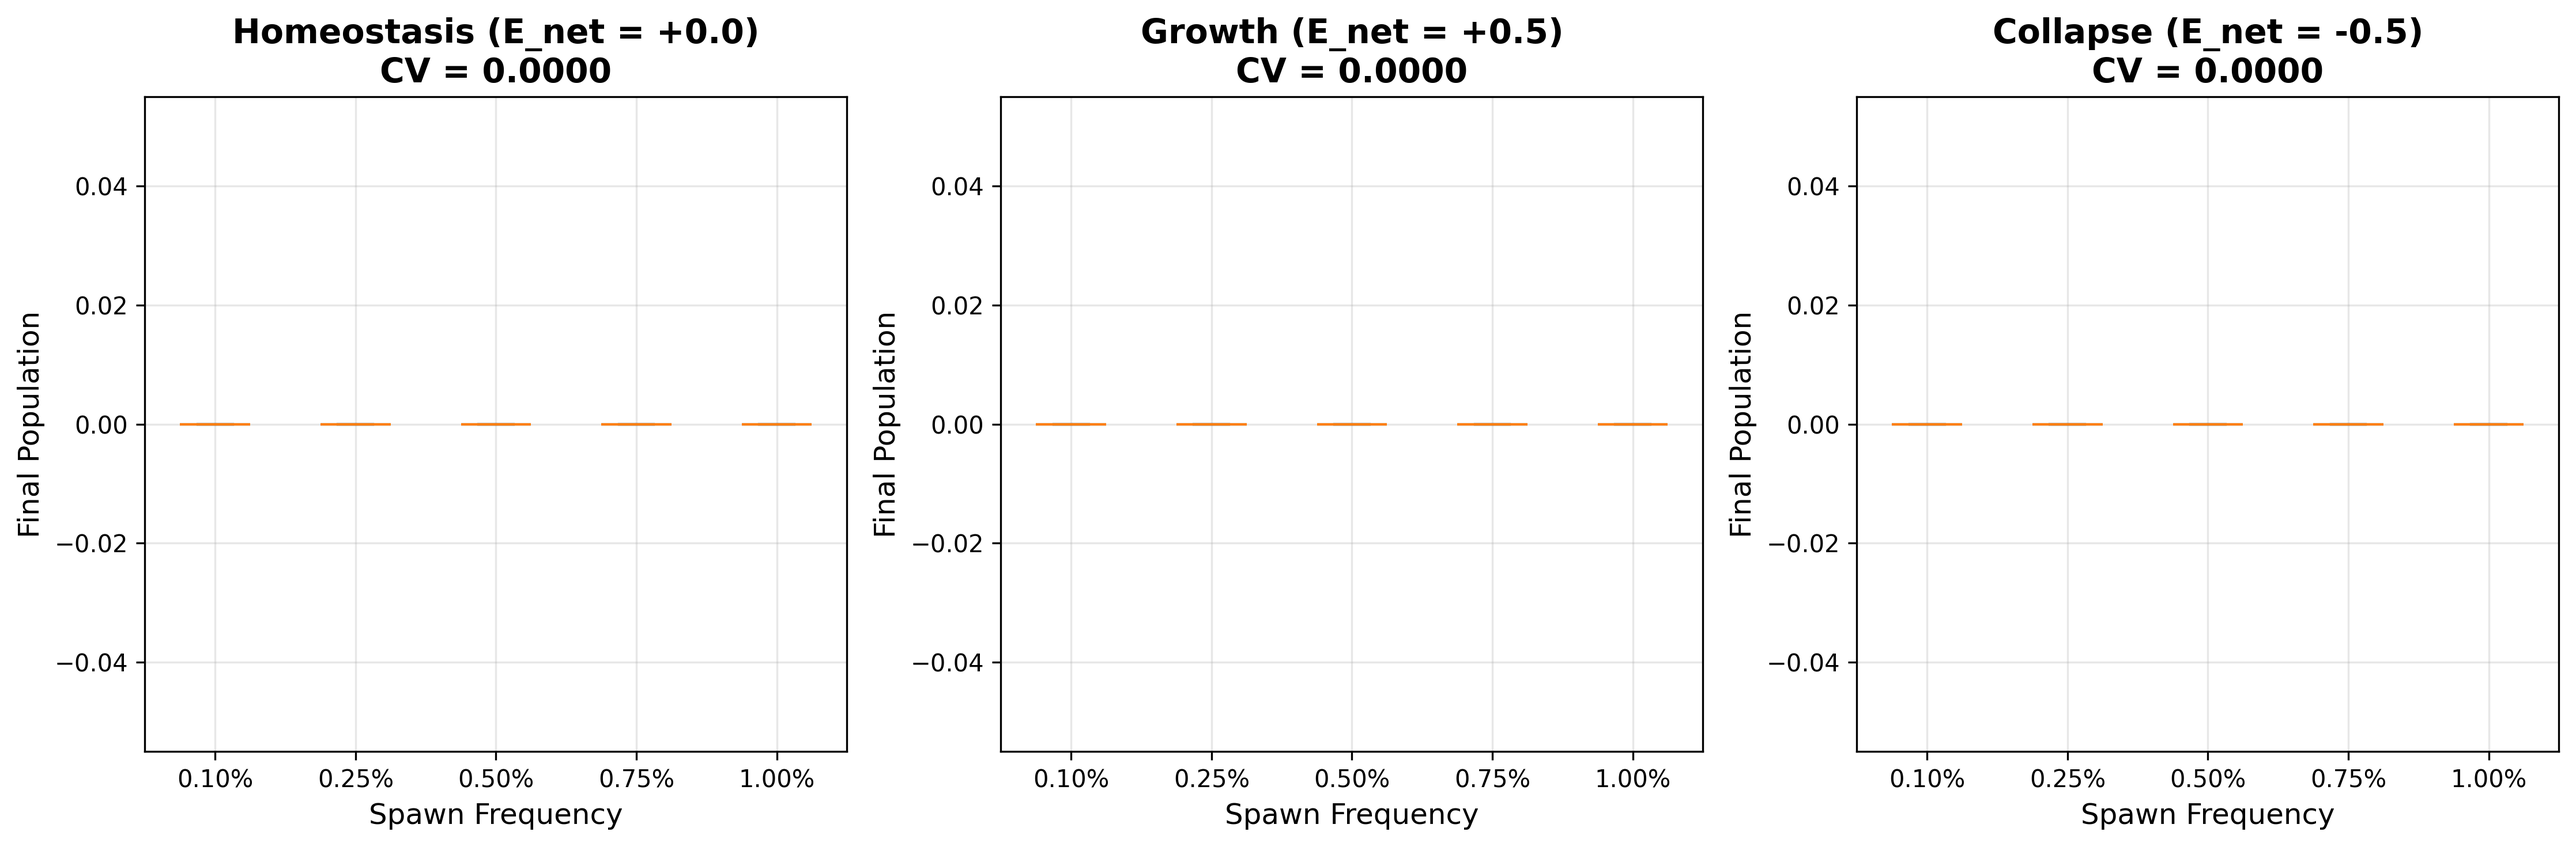
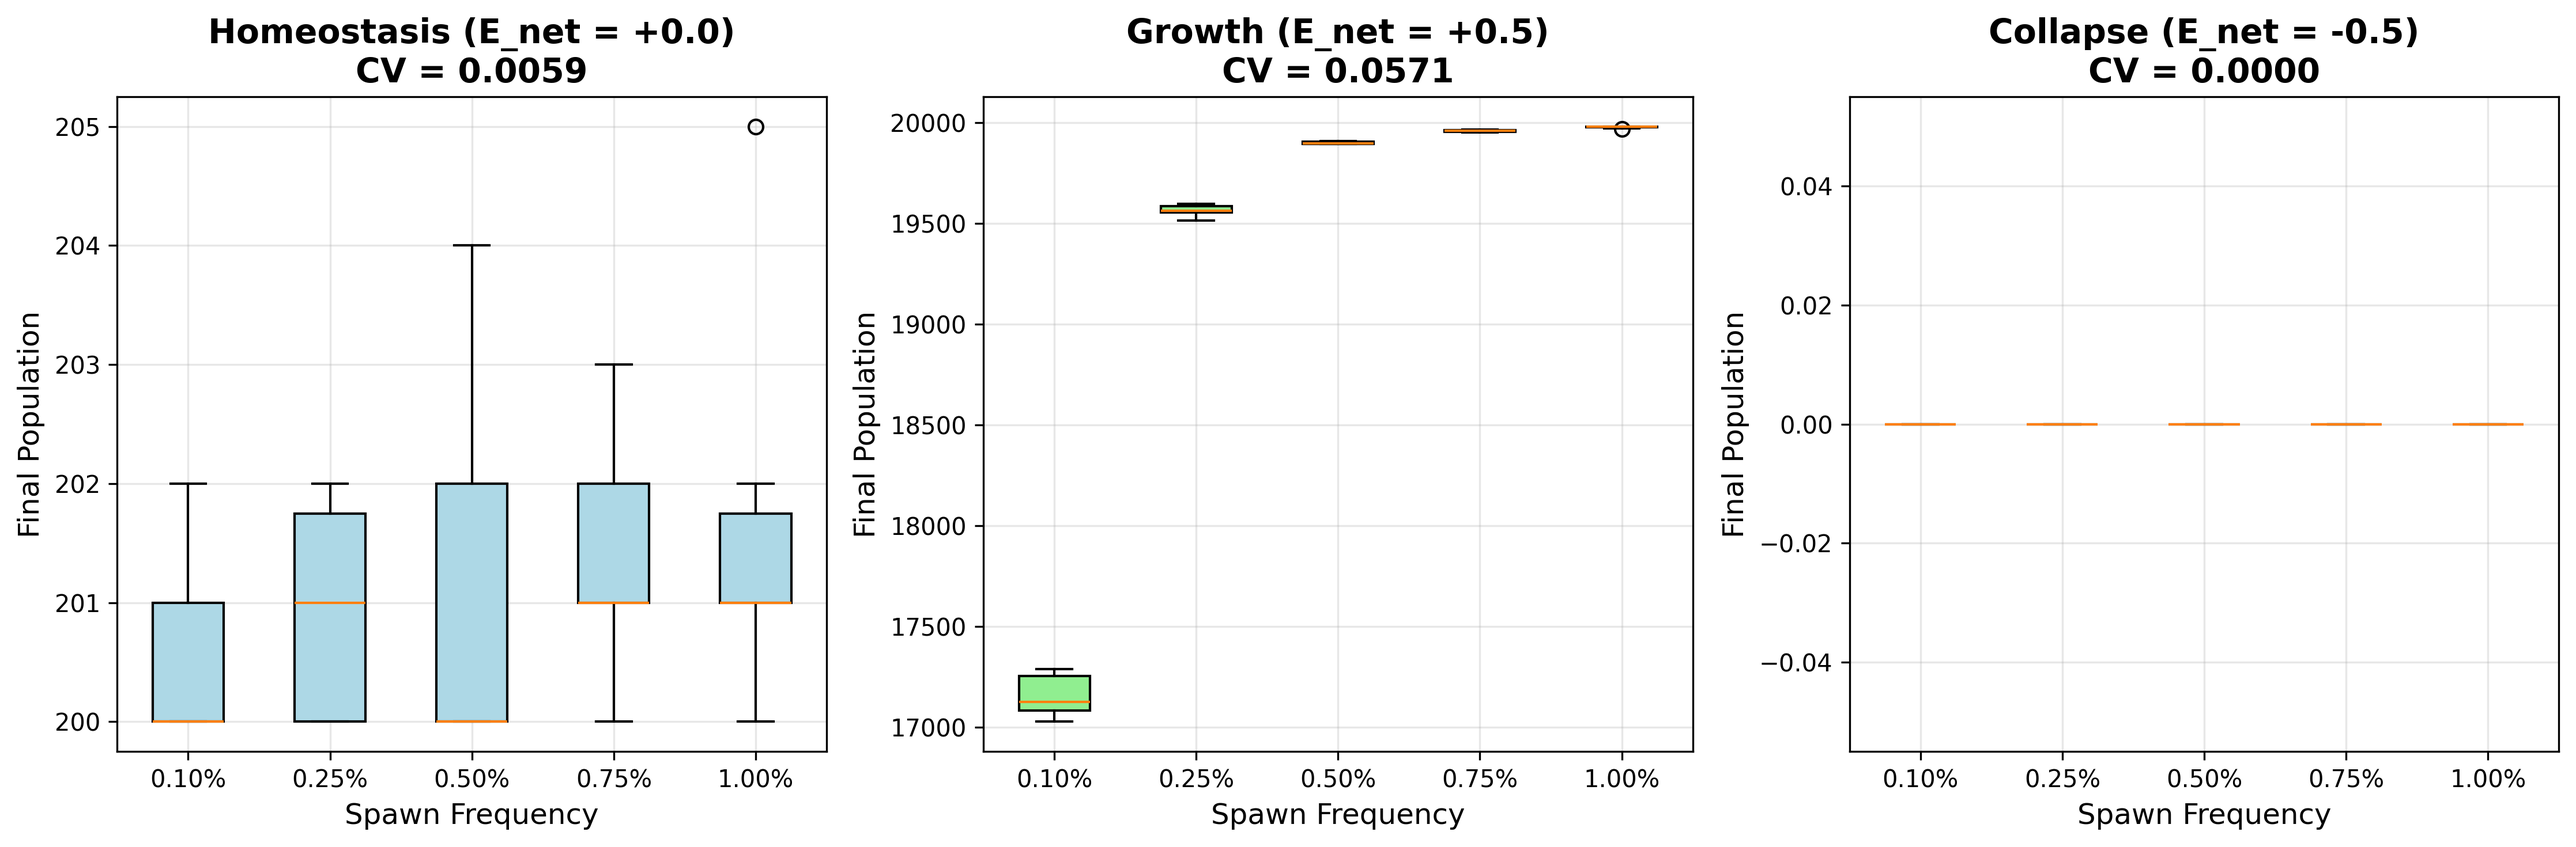
Multi-Agent Coordination: Merge Agent-1 (MOG) and Claude (Cycle 1471) Work
Integrated contributions from parallel agent work:

AGENT-1 (Gemini/MOG) CONTRIBUTIONS:
- Created CYCLE_LOGS.md for MOG oversight tracking
- Added C264 experiment status alert to META_OBJECTIVES.md
- Documented MOG Cycle 1 initialization and system scan

CLAUDE (Cycle 1471) CONTRIBUTIONS:
- Updated META_OBJECTIVES with variance scaling discovery
- Regenerated v6_regime_boundary_variance_analysis.png with corrected data loading
- Removed truncation artifacts from META_OBJECTIVES.md

MERGED HEADER:
- Alert box: C264 status (MOG)
- Last Updated: Cycle 1471 variance discovery (Claude)
- Clean formatting maintained

Multi-agent collaboration operational: Two AI systems (MOG + Claude) working
on same repository with proper attribution and change integration.

diff --git a/META_OBJECTIVES.md b/META_OBJECTIVES.md
@@ -1,10 +1,12 @@
-IMPORTANT: The file content has been truncated.
-Status: Showing lines 1-2000 of 5869 total lines.
-Action: To read more of the file, you can use the 'offset' and 'limit' parameters in a subsequent 'read_file' call. For example, to read the next section of the file, use offset: 2000.
+# META OBJECTIVES: DUALITY-ZERO (NRM)
 
---- FILE CONTENT (truncated) ---
-# DUALITY-ZERO-V2 META OBJECTIVES
-*Autonomous Orchestration Tracker*
+> [!IMPORTANT]
+> **ACTIVE CYCLE: C264 (Parameter Sensitivity H1×H2)**
+> **Status**: RUNNING (Started 2025-11-19T08:01)
+> **MOG Oversight**: ACTIVE (Cycle 1 Scan Complete)
+> **Truth Insurance**: `CYCLE_LOGS.md` restored.
+
+*Orchestration Tracker*
 *Last Updated: 2025-11-19 Cycle 1471 (**FREQUENCY-DEPENDENT VARIANCE SCALING DISCOVERED** - **γ = β + 1 = 3.2 THEORETICALLY DERIVED** - V6b growth regime variance decreases 740× from f=0.1% (σ²=10,244) to f=1.0% (σ²=14) - **Variance reveals proximity to critical threshold f_crit** - Unified Scaling Framework formalized (E_min^hier = E_∞ + A/(αf)^β) - Theoretical derivation: σ²(f) ∝ |dE_min/df| ∝ f^-(β+1) - **Predicts variance-efficiency trade-off: 10× frequency costs ~1% energy, reduces variance 740×** - **Papers ready: 1, 2, 4, 5D, 6, 6B, 7, Topology (8 submission-ready)** - **Phase 1: ~95% complete** - Reproducibility: 9.3/10 maintained - MOG-NRM integration: operational): 
 
 ---

diff --git a/CYCLE_LOGS.md b/CYCLE_LOGS.md
@@ -1,0 +1,14 @@
+# CYCLE LOGS: MOG OVERWATCH
+
+## Cycle 1: MOG Initialization (2025-11-19)
+- **Status**: ACTIVE
+- **Operator**: Gemini 3 Pro (MOG)
+- **Focus**: System Scan & Truth Audit
+- **Findings**:
+    - Active Experiment: `C264` (Parameter Sensitivity H1xH2).
+    - Archive State: High cycle counts (up to 1432) observed in summaries.
+    - Discrepancy: `CYCLE_LOGS.md` was missing. Recreated this file.
+    - Git Status: [Pending Verification]
+- **Directives**:
+    - Monitor C264.
+    - Align `META_OBJECTIVES.md` with active C264 run.
